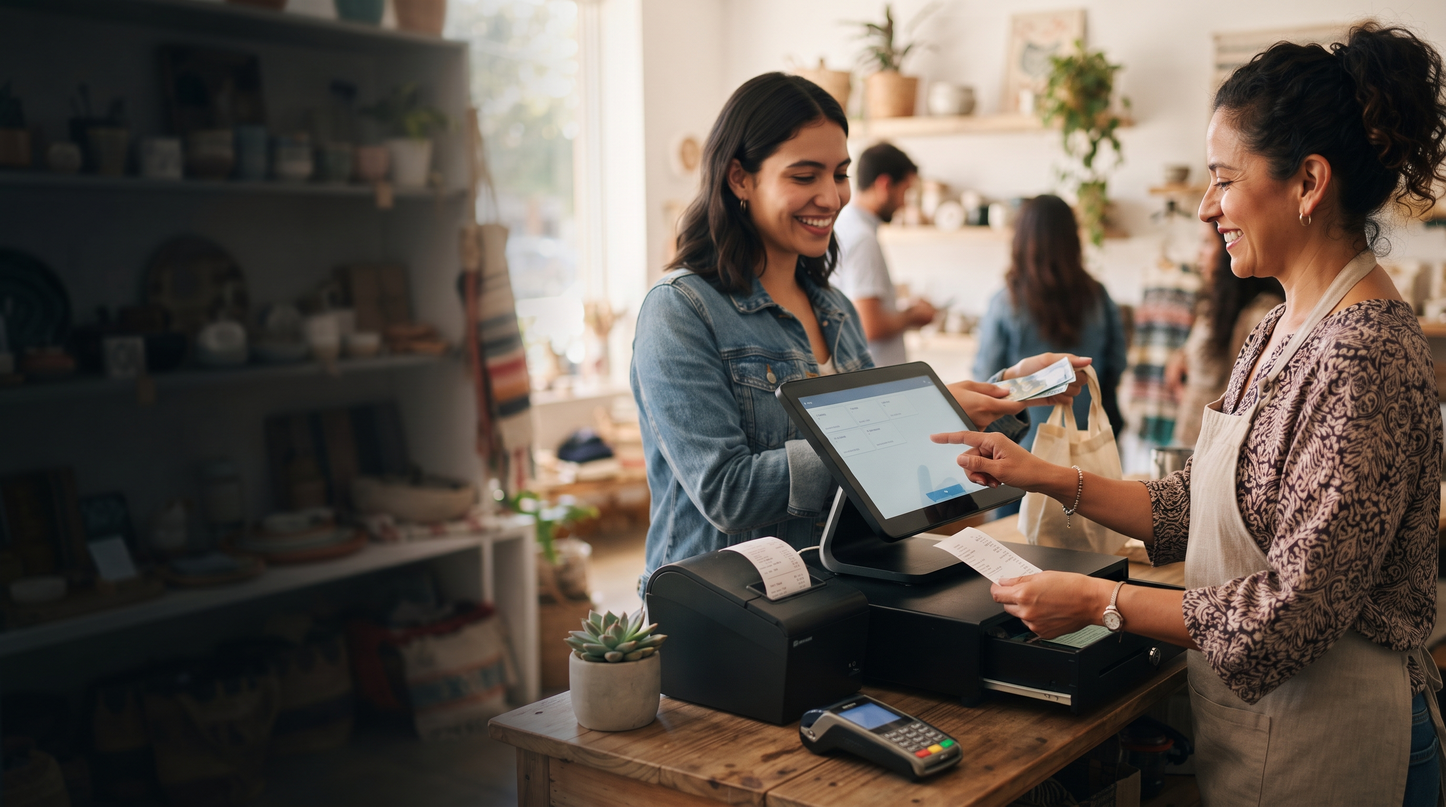
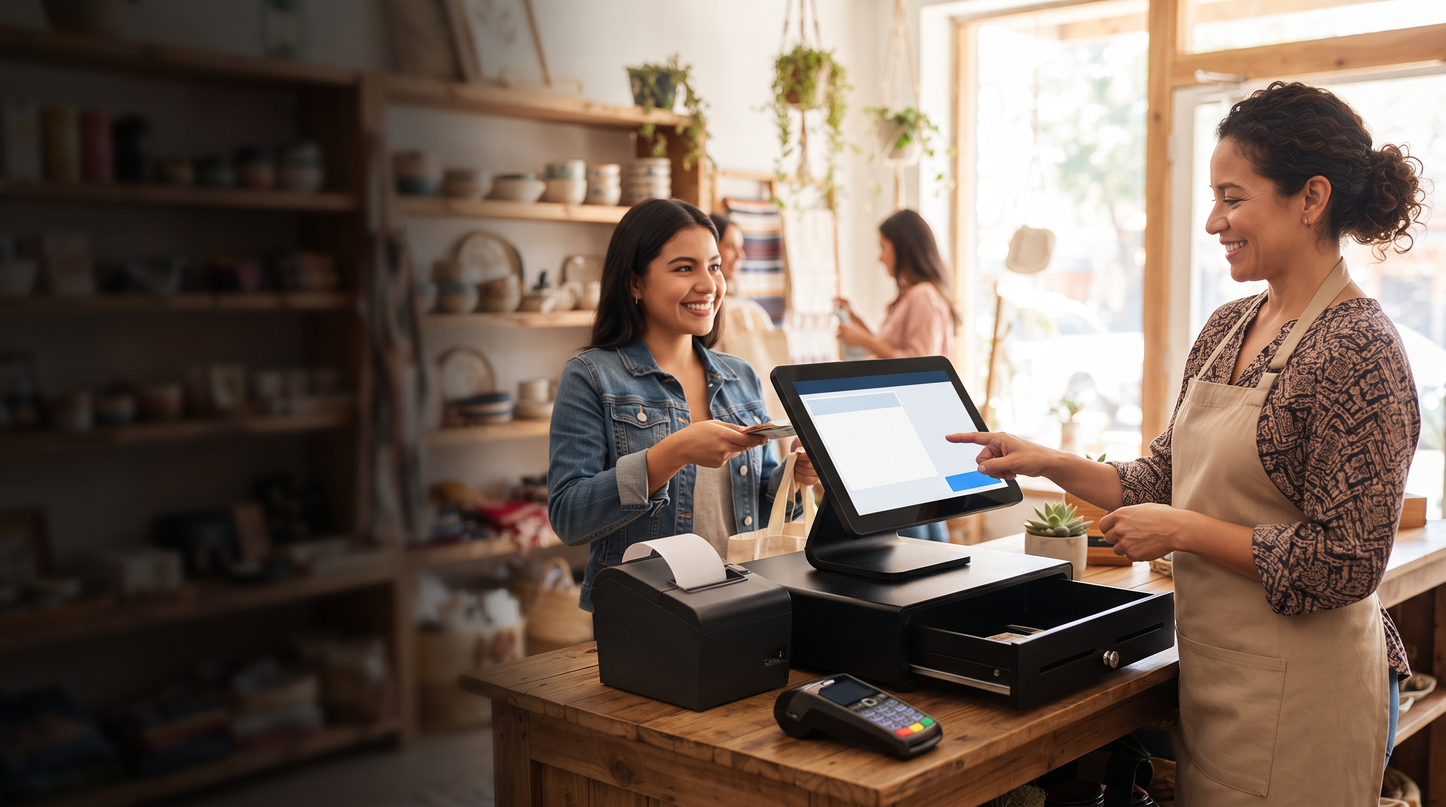
Nueva imagen portada

diff --git a/index.html b/index.html
@@ -32,7 +32,7 @@
   <link href="css/nivo-slider-theme.css" rel="stylesheet">
 
   <!-- Main Stylesheet File -->
-  <link href="css/style.css?v=2" rel="stylesheet">
+  <link href="css/style.css?v=4" rel="stylesheet">
 
   <!-- Responsive Stylesheet File -->
   <link href="css/responsive.css" rel="stylesheet">
@@ -206,7 +206,7 @@
   <div id="home" class="slider-area">
     <div class="bend niceties preview-2">
       <div id="ensign-nivoslider" class="slides">
-        <img src="img/hero-pos.jpg?v=1" alt="" title="#slider-direction-1" />
+        <img src="img/hero-pos.jpg?v=3" alt="" title="#slider-direction-1" />
         <img src="img/slider/SLIDER_2.png" alt="" title="#slider-direction-2" />
         <img src="img/slider/SLIDER_3.png" alt="" title="#slider-direction-3" />
       </div>
@@ -221,7 +221,7 @@
                   <!-- layer 1 -->
                   <p class="hero-eyebrow wow slideInDown" data-wow-duration="2s" data-wow-delay=".2s">Facturación electrónica · POS · Soporte IT</p>
                   <!-- layer 2 -->
-                  <h1 class="hero-title wow slideInUp" data-wow-duration="2s" data-wow-delay=".1s">Factura sin miedo a multas. Vende sin parar.</h1>
+                  <h1 class="hero-title wow slideInUp" data-wow-duration="2s" data-wow-delay=".1s">Factura <span class="hero-title-accent">sin miedo a multas</span>. Vende sin parar.</h1>
                   <p class="hero-subtitle wow slideInUp" data-wow-duration="2s" data-wow-delay=".15s">Instalamos tu facturación electrónica, sistema de caja y soporte técnico para que tú solo te ocupes de vender.</p>
                   <!-- layer 3 -->
                   <div class="layer-1-3 wow slideInUp" data-wow-duration="2s" data-wow-delay=".2s">

diff --git a/css/style.css b/css/style.css
@@ -957,7 +957,7 @@ nav ul li a.cta-demo-header:hover {
   left: 50%;
   width: 100vw;
   transform: translateX(-50%);
-  background-image: linear-gradient(90deg, rgba(10, 15, 30, 0.92) 0%, rgba(10, 15, 30, 0.75) 45%, rgba(10, 15, 30, 0.35) 100%), url("../img/hero-pos.jpg?v=1");
+  background-image: linear-gradient(90deg, rgba(10, 15, 30, 0.92) 0%, rgba(10, 15, 30, 0.75) 45%, rgba(10, 15, 30, 0.35) 100%), url("../img/hero-pos.jpg?v=3");
   background-position: center, center right;
   background-size: cover, cover;
   background-repeat: no-repeat, no-repeat;
@@ -1019,6 +1019,22 @@ body.page-home .nivo-caption .row {
   line-height: 1.15;
   margin: 0 0 1.25rem;
   text-shadow: 0 2px 12px rgba(0, 0, 0, 0.5);
+}
+
+.hero-title-accent {
+  color: var(--color-accent);
+}
+
+/* Vertically center the text block within the hero on desktop — it
+   previously sat high in the block (the shared .slider-content padding
+   pushes content down by a fixed amount regardless of how tall the
+   slide actually is) rather than centered in the available height.
+   Desktop-only per request; mobile (≤991px, where .hero-content
+   already switches to a centered column) is left untouched. */
+@media (min-width: 992px) {
+  .hero-content {
+    min-height: 70vh;
+  }
 }
 
 .hero-subtitle {
